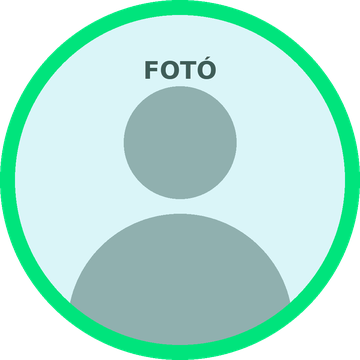
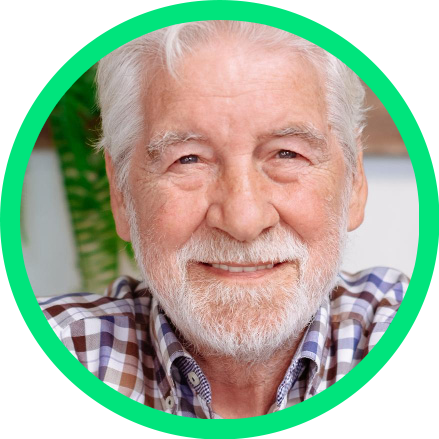
changes1

diff --git a/index.html b/index.html
@@ -60,7 +60,7 @@ a{color:#00807d;}
 </head>
 <body class="email-outer" style="margin:0;padding:0;background-color:#f7f5ef;">
 <!-- Preheader (rejtett előnézeti szöveg) -->
-<div style="display:none;font-size:1px;line-height:1px;max-height:0;max-width:0;opacity:0;overflow:hidden;mso-hide:all;">A megfelelő HbA1c nem jelent automatikusan optimális cardiorenalis védelmet – gyakorlati eset a háziorvosi rendelőből.&#8199;&#847;&#8199;&#847;&#8199;&#847;&#8199;&#847;&#8199;&#847;&#8199;&#847;&#8199;&#847;&#8199;&#847;</div>
+<div style="display:none;font-size:1px;line-height:1px;max-height:0;max-width:0;opacity:0;overflow:hidden;mso-hide:all;">A megfelelő HbA1c nem jelent automatikusan optimális kardiorenális védelmet – gyakorlati eset a háziorvosi rendelőből.&#8199;&#847;&#8199;&#847;&#8199;&#847;&#8199;&#847;&#8199;&#847;&#8199;&#847;&#8199;&#847;&#8199;&#847;</div>
 <center class="email-outer" style="width:100%;background-color:#f7f5ef;">
 <table role="presentation" class="email-outer" width="100%" cellpadding="0" cellspacing="0" border="0" bgcolor="#f7f5ef">
 <tr><td align="center" style="padding:32px 10px;">
@@ -120,7 +120,7 @@ a{color:#00807d;}
 <td bgcolor="#00e47c" style="background-color:#00e47c;padding:8px 18px;mso-padding-alt:10px 18px;border-radius:18px 0 18px 0;font-family:'BoehringerForwardArabicVar',Arial,Helvetica,sans-serif;font-size:22px;line-height:29px;color:#08312a;">Bevezetés</td>
 </tr></table></td></tr>
 <tr><td style="height:18px;line-height:18px;font-size:1px;mso-line-height-rule:exactly;">&nbsp;</td></tr>
-<tr><td class="force-light-text" style="font-family:'BoehringerForwardHead',Arial,Helvetica,sans-serif;font-size:15.5px;line-height:25px;color:#12241f;">Az elmúlt években jelentős szemléletváltás zajlott le a 2-es típusú diabetes kezelésében. Az SGLT2-gátlók mára nem csupán vércukorcsökkentő készítményekké váltak, hanem bizonyított cardiorenalis védőhatással rendelkező terápiákká, amelyek a diabetológiai, nefrológiai és kardiológiai ajánlásokban egyaránt kiemelt szerepet kaptak.<sup style="font-size:10px;line-height:0;vertical-align:super;">1–4,16</sup></td></tr>
+<tr><td class="force-light-text" style="font-family:'BoehringerForwardHead',Arial,Helvetica,sans-serif;font-size:15.5px;line-height:25px;color:#12241f;">Az elmúlt években jelentős szemléletváltás zajlott le a 2-es típusú diabétesz kezelésében. Az SGLT2-gátlók mára nem csupán vércukorcsökkentő készítményekké váltak, hanem bizonyított kardiorenális védőhatással rendelkező terápiákká, amelyek a diabetológiai, nefrológiai és kardiológiai ajánlásokban egyaránt kiemelt szerepet kaptak.<sup style="font-size:10px;line-height:0;vertical-align:super;">1–4,16</sup></td></tr>
 <tr><td style="height:20px;line-height:20px;font-size:1px;mso-line-height-rule:exactly;">&nbsp;</td></tr>
 <!-- Szemléletváltás vizuál -->
 <tr><td>
@@ -134,7 +134,7 @@ a{color:#00807d;}
   <td class="step-cell" width="44%" valign="middle" bgcolor="#08312a" style="background-color:#08312a;border-radius:16px;padding:18px 18px;">
     <div style="font-family:Arial,Helvetica,sans-serif;font-size:11px;line-height:14px;font-weight:bold;letter-spacing:.08em;color:#00e47c;">MA</div>
     <div style="height:6px;line-height:6px;font-size:1px;">&nbsp;</div>
-    <div style="font-family:'BoehringerForwardHead',Arial,Helvetica,sans-serif;font-size:17px;line-height:22px;font-weight:bold;color:#ffffff;">Bizonyított cardiorenalis védőhatás</div>
+    <div style="font-family:'BoehringerForwardHead',Arial,Helvetica,sans-serif;font-size:17px;line-height:22px;font-weight:bold;color:#ffffff;">Vércukorcsökkentés bizonyított kardiorenális védelemmel</div>
   </td>
 </tr></table>
 </td></tr>
@@ -189,7 +189,7 @@ a{color:#00807d;}
     <td style="padding-left:10px;font-family:'BoehringerForwardHead',Arial,Helvetica,sans-serif;font-size:16px;line-height:20px;font-weight:bold;color:#08312a;">Igazolt társbetegség áll fenn</td>
   </tr></table>
   <div style="height:10px;line-height:10px;font-size:1px;">&nbsp;</div>
-  <div style="font-family:'BoehringerForwardHead',Arial,Helvetica,sans-serif;font-size:14px;line-height:21px;color:#12241f;">Dokumentált 2-es típusú diabetes mellitusban, ha az alábbi társbetegségek valamelyike is fennáll:</div>
+  <div style="font-family:'BoehringerForwardHead',Arial,Helvetica,sans-serif;font-size:14px;line-height:21px;color:#12241f;">Dokumentált 2-es típusú diabétesz mellitusban, ha az alábbi társbetegségek valamelyike is fennáll:</div>
   <div style="height:10px;line-height:10px;font-size:1px;">&nbsp;</div>
   <table role="presentation" width="100%" cellpadding="0" cellspacing="0" border="0">
     <tr><td width="40" valign="middle" style="width:40px;padding:0 10px 8px 0;"><img src="images/ph-ikon-sziv.png" width="36" height="36" alt="" style="display:block;width:36px;height:36px;border:0;outline:none;text-decoration:none;"></td><td valign="middle" style="padding:0 0 8px;font-family:'BoehringerForwardHead',Arial,Helvetica,sans-serif;font-size:14px;line-height:19px;font-weight:bold;color:#08312a;">csökkent ejekciós frakciójú szívelégtelenség</td></tr>
@@ -205,7 +205,7 @@ a{color:#00807d;}
 <td bgcolor="#00e47c" style="background-color:#00e47c;padding:8px 18px;mso-padding-alt:10px 18px;border-radius:18px 0 18px 0;font-family:'BoehringerForwardArabicVar',Arial,Helvetica,sans-serif;font-size:22px;line-height:29px;color:#08312a;">Klinikai eset</td>
 </tr></table></td></tr>
 <tr><td style="height:18px;line-height:18px;font-size:1px;mso-line-height-rule:exactly;">&nbsp;</td></tr>
-<tr><td class="force-light-text" style="font-family:'BoehringerForwardHead',Arial,Helvetica,sans-serif;font-size:15.5px;line-height:25px;color:#12241f;">Egy 68 éves, 2-es típusú diabetesben szenvedő férfi érkezik kontrollvizsgálatra. Metformin-kezelés mellett HbA1c-értéke 6,8%, ezért első pillantásra megfelelő anyagcserehelyzetben lévő betegnek tűnik. Laboreredményeiben azonban az eGFR 48 ml/perc/1,73 m², az albumin/kreatinin arány pedig 89 mg/g. A betegnek tehát diabetes mellett krónikus vesebetegsége is fennáll.<sup style="font-size:10px;line-height:0;vertical-align:super;">1</sup></td></tr>
+<tr><td class="force-light-text" style="font-family:'BoehringerForwardHead',Arial,Helvetica,sans-serif;font-size:15.5px;line-height:25px;color:#12241f;">Egy 68 éves, 2-es típusú diabéteszben szenvedő férfi érkezik kontrollvizsgálatra. Metformin-kezelés mellett HbA1c-értéke 6,8%, ezért első pillantásra megfelelő anyagcserehelyzetben lévő betegnek tűnik. Laboreredményeiben azonban az eGFR 48 ml/perc/1,73 m², az albumin/kreatinin arány pedig 8,9 mg/mmol. A betegnek tehát diabétesz mellett krónikus vesebetegsége is fennáll.<sup style="font-size:10px;line-height:0;vertical-align:super;">1</sup></td></tr>
 <tr><td style="height:20px;line-height:20px;font-size:1px;mso-line-height-rule:exactly;">&nbsp;</td></tr>
 <tr><td class="card-pad" style="border:2px solid #a3e5ee;border-radius:20px;padding:22px 20px;">
   <table role="presentation" width="100%" cellpadding="0" cellspacing="0" border="0">
@@ -213,14 +213,14 @@ a{color:#00807d;}
     <td class="stack patient-av" width="140" valign="top" align="center" style="width:140px;padding:0 18px 14px 0;">
       <img src="images/ph-beteg-foto.png" width="120" height="120" alt="Beteg – illusztráció" style="display:block;width:120px;height:120px;border:0;outline:none;text-decoration:none;">
       <table role="presentation" cellpadding="0" cellspacing="0" border="0" align="center" style="margin-top:-14px;"><tr>
-        <td bgcolor="#00e47c" style="background-color:#00e47c;padding:5px 12px;font-family:'BoehringerForwardHead',Arial,Helvetica,sans-serif;font-size:14px;line-height:18px;font-weight:bold;color:#08312a;white-space:nowrap;">68 éves férfi</td>
+        <td bgcolor="#00e47c" style="background-color:#00e47c;padding:5px 12px;padding-top:15px;font-family:'BoehringerForwardHead',Arial,Helvetica,sans-serif;font-size:14px;line-height:18px;font-weight:bold;color:#08312a;white-space:nowrap;">68 éves férfi</td>
       </tr></table>
     </td>
     <td class="stack" valign="top">
       <table role="presentation" width="100%" cellpadding="0" cellspacing="0" border="0">
         <tr>
           <td width="54" valign="middle" style="width:54px;padding:0 12px 12px 0;"><img src="images/diabetes_monitor.png" width="44" height="44" alt="" style="display:block;width:44px;height:44px;border:0;outline:none;text-decoration:none;"></td>
-          <td valign="middle" style="padding:0 0 12px;"><div style="font-family:'BoehringerForwardHead',Arial,Helvetica,sans-serif;font-size:15px;line-height:20px;font-weight:bold;color:#08312a;">Diagnózis</div><div style="font-family:'BoehringerForwardHead',Arial,Helvetica,sans-serif;font-size:14px;line-height:19px;color:#12241f;">2-es típusú diabetes</div></td>
+          <td valign="middle" style="padding:0 0 12px;"><div style="font-family:'BoehringerForwardHead',Arial,Helvetica,sans-serif;font-size:15px;line-height:20px;font-weight:bold;color:#08312a;">Diagnózis</div><div style="font-family:'BoehringerForwardHead',Arial,Helvetica,sans-serif;font-size:14px;line-height:19px;color:#12241f;">2-es típusú diabétesz</div></td>
         </tr>
         <tr>
           <td width="54" valign="middle" style="width:54px;padding:0 12px 12px 0;"><img src="images/clipboard_pil.png" width="44" height="44" alt="" style="display:block;width:44px;height:44px;border:0;outline:none;text-decoration:none;"></td>
@@ -249,7 +249,7 @@ a{color:#00807d;}
 </tr>
     <tr>
   <td class="lab" bgcolor="#f2f2f2" style="background-color:#f2f2f2;padding:10px 12px;font-family:Arial,Helvetica,sans-serif;font-size:13px;line-height:17px;font-weight:bold;color:#08312a;">Albumin/&#8203;kreatinin arány</td>
-  <td class="lab" bgcolor="#f2f2f2" style="background-color:#f2f2f2;padding:10px 12px;font-family:'BoehringerForwardHead',Arial,Helvetica,sans-serif;font-size:14px;line-height:18px;color:#12241f;">89 mg/g</td>
+  <td class="lab" bgcolor="#f2f2f2" style="background-color:#f2f2f2;padding:10px 12px;font-family:'BoehringerForwardHead',Arial,Helvetica,sans-serif;font-size:14px;line-height:18px;color:#12241f;">8,9 mg/mmol</td>
   <td class="lab" bgcolor="#f2f2f2" align="right" style="background-color:#f2f2f2;padding:8px 12px;"><table role="presentation" cellpadding="0" cellspacing="0" border="0"><tr><td bgcolor="#ffc500" style="background-color:#ffc500;padding:3px 10px;border-radius:12px;font-family:Arial,Helvetica,sans-serif;font-size:11px;line-height:15px;font-weight:bold;color:#08312a;white-space:nowrap;text-transform:uppercase;letter-spacing:.04em;">emelkedett</td></tr></table></td>
 </tr>
   </table>
@@ -285,13 +285,13 @@ a{color:#00807d;}
     <td bgcolor="#00e47c" style="background-color:#00e47c;border-radius:16px;padding:18px 18px 20px;">
       <table role="presentation" cellpadding="0" cellspacing="0" border="0"><tr><td bgcolor="#08312a" style="background-color:#08312a;padding:3px 10px;border-radius:12px;font-family:Arial,Helvetica,sans-serif;font-size:11px;line-height:15px;font-weight:bold;color:#00e47c;white-space:nowrap;text-transform:uppercase;letter-spacing:.04em;">&#10003;&nbsp; ajánlás</td></tr></table>
       <div style="height:12px;line-height:12px;font-size:1px;">&nbsp;</div>
-      <div style="font-family:'BoehringerForwardHead',Arial,Helvetica,sans-serif;font-size:14.5px;line-height:22px;color:#08312a;">A jelenlegi ajánlások azonban egyértelműen hangsúlyozzák, hogy krónikus vesebetegség és szívelégtelenség esetén az SGLT2-gátlók alkalmazásának <b>elsődleges célja a cardiorenalis védelem.</b><sup style="font-size:10px;line-height:0;vertical-align:super;">2,4,5</sup></div>
+      <div style="font-family:'BoehringerForwardHead',Arial,Helvetica,sans-serif;font-size:14.5px;line-height:22px;color:#08312a;">A jelenlegi ajánlások azonban egyértelműen hangsúlyozzák, hogy krónikus vesebetegség és szívelégtelenség esetén az SGLT2-gátlók alkalmazásának <b>elsődleges célja a kardiorenális védelem.</b><sup style="font-size:10px;line-height:0;vertical-align:super;">2,4,5</sup></div>
     </td></tr></table>
   </td>
 </tr></table>
 </td></tr>
 <tr><td style="height:26px;line-height:26px;font-size:1px;mso-line-height-rule:exactly;">&nbsp;</td></tr>
-<tr><td class="" style="font-family:'BoehringerForwardHead',Arial,Helvetica,sans-serif;font-size:15.5px;line-height:25px;color:#ffffff;">A cardiorenalis kockázat megítéléséhez nem elegendő a HbA1c értékelése. Rendszeresen szükséges áttekinteni:<sup style="font-size:10px;line-height:0;vertical-align:super;">2</sup></td></tr>
+<tr><td class="" style="font-family:'BoehringerForwardHead',Arial,Helvetica,sans-serif;font-size:15.5px;line-height:25px;color:#ffffff;">A kardiorenális kockázat megítéléséhez nem elegendő a HbA1c értékelése. Rendszeresen szükséges áttekinteni<sup style="font-size:10px;line-height:0;vertical-align:super;">2</sup> :</td></tr>
 <tr><td style="height:18px;line-height:18px;font-size:1px;mso-line-height-rule:exactly;">&nbsp;</td></tr>
 <tr><td><table role="presentation" width="100%" cellpadding="0" cellspacing="0" border="0">
 <tr>
@@ -382,7 +382,7 @@ a{color:#00807d;}
     </tr></table>
     <div style="height:16px;line-height:16px;font-size:1px;">&nbsp;</div>
     <div style="font-family:Arial,Helvetica,sans-serif;font-size:11px;line-height:14px;font-weight:bold;letter-spacing:.06em;color:#4b5f59;">BETEGÜNK</div>
-    <div style="font-family:'BoehringerForwardHead',Arial,Helvetica,sans-serif;font-size:22px;line-height:28px;font-weight:bold;color:#08312a;">89 mg/g</div>
+    <div style="font-family:'BoehringerForwardHead',Arial,Helvetica,sans-serif;font-size:22px;line-height:28px;font-weight:bold;color:#08312a;">8,9 mg/mmol</div>
     <div style="font-family:'BoehringerForwardHead',Arial,Helvetica,sans-serif;font-size:12px;line-height:16px;color:#4b5f59;">albumin/kreatinin arány</div>
   </td>
 </tr></table>
@@ -410,7 +410,7 @@ a{color:#00807d;}
     <td class="stack" valign="middle">
       <div style="font-family:Arial,Helvetica,sans-serif;font-size:11px;line-height:14px;font-weight:bold;letter-spacing:.08em;color:#08312a;">KLINIKAI TANULSÁG</div>
       <div style="height:6px;line-height:6px;font-size:1px;">&nbsp;</div>
-      <div style="font-family:'BoehringerForwardHead',Arial,Helvetica,sans-serif;font-size:21px;line-height:27px;font-weight:bold;color:#08312a;">A megfelelő HbA1c nem jelent automatikusan optimális cardiorenalis védelmet.</div>
+      <div style="font-family:'BoehringerForwardHead',Arial,Helvetica,sans-serif;font-size:21px;line-height:27px;font-weight:bold;color:#08312a;">A megfelelő HbA1c nem jelent automatikusan optimális kardiorenális védelmet.</div>
       <div style="height:8px;line-height:8px;font-size:1px;">&nbsp;</div>
       <div style="font-family:'BoehringerForwardHead',Arial,Helvetica,sans-serif;font-size:15px;line-height:22px;color:#08312a;">A terápiás döntések során a beteg teljes kockázati profilját szükséges figyelembe venni.<sup style="font-size:10px;line-height:0;vertical-align:super;">1,2,4</sup></div>
     </td>
@@ -424,7 +424,7 @@ a{color:#00807d;}
     <td class="stack" valign="middle">
       <div style="font-family:'BoehringerForwardArabicVar',Arial,Helvetica,sans-serif;font-size:22px;line-height:28px;color:#08312a;">Gyakorlati megfontolás</div>
       <div style="height:6px;line-height:6px;font-size:1px;">&nbsp;</div>
-      <div style="font-family:'BoehringerForwardHead',Arial,Helvetica,sans-serif;font-size:15px;line-height:23px;color:#12241f;">A következő diabeteses kontrollvizsgálat során érdemes áttekinteni a CKD-ben szenvedő betegek eGFR- és albuminuria-adatait, valamint mérlegelni, hogy a beteg profitálhat-e SGLT2-gátló kezelésből.</div>
+      <div style="font-family:'BoehringerForwardHead',Arial,Helvetica,sans-serif;font-size:15px;line-height:23px;color:#12241f;">A következő diabéteszes kontrollvizsgálat során érdemes áttekinteni a CKD-ben szenvedő betegek eGFR- és albuminuria-adatait, valamint mérlegelni, hogy a beteg profitálhat-e SGLT2-gátló kezelésből.</div>
     </td>
   </tr></table>
   <div style="height:18px;line-height:18px;font-size:1px;">&nbsp;</div>
@@ -488,9 +488,9 @@ a{color:#00807d;}
   <table role="presentation" width="100%" cellpadding="0" cellspacing="0" border="0"><tr>
     <td class="stack stack-gap" width="96" valign="top" style="width:96px;padding-right:18px;"><img src="images/ph-szerzo-foto.png" width="84" height="84" alt="Móczár Csaba dr." style="display:block;width:84px;height:84px;border:0;outline:none;text-decoration:none;"></td>
     <td class="stack" valign="top">
-      <div class="force-light-muted" style="font-family:'BoehringerForwardHead',Arial,Helvetica,sans-serif;font-size:14px;line-height:21px;color:#4b5f59;">Hírlevelünk dr. Móczár Csaba: <i>Mire figyeljünk az SGLT2-gátlók és a GLP-receptor-antagonisták felírásával kapcsolatban</i> című cikke alapján készült.</div>
+      <div class="force-light-muted" style="font-family:'BoehringerForwardHead',Arial,Helvetica,sans-serif;font-size:14px;line-height:21px;color:#4b5f59;">Hírlevelünk Dr. Móczár Csaba: <i>Mire figyeljünk az SGLT2-gátlók és a GLP-receptor-antagonisták felírásával kapcsolatban</i> című cikke alapján készült.</div>
       <div style="height:10px;line-height:10px;font-size:1px;">&nbsp;</div>
-      <div class="force-light-text" style="font-family:'BoehringerForwardHead',Arial,Helvetica,sans-serif;font-size:16px;line-height:21px;font-weight:bold;color:#08312a;">Móczár Csaba dr.</div>
+      <div class="force-light-text" style="font-family:'BoehringerForwardHead',Arial,Helvetica,sans-serif;font-size:16px;line-height:21px;font-weight:bold;color:#08312a;">dr. Móczár Csaba</div>
       <div class="force-light-muted" style="font-family:'BoehringerForwardHead',Arial,Helvetica,sans-serif;font-size:12.5px;line-height:18px;color:#4b5f59;">Irinyi Rendelő, Felnőtt háziorvosi rendelő, Kecskemét<br>Irinyi Rendelő, Diabetológiai szakrendelő, Kecskemét<br>Semmelweis Egyetem, ÁOK, Családorvosi Tanszék, Budapest</div>
     </td>
   </tr></table>
@@ -506,11 +506,11 @@ a{color:#00807d;}
 <!--[if !mso]><!-->
 <table role="presentation" cellpadding="0" cellspacing="0" border="0" align="center"><tr>
 <td bgcolor="#00e47c" align="center" valign="middle" style="background-color:#00e47c;border-radius:10px;padding:15px 30px;">
-<a href="#CIKK_URL" target="_blank" style="display:inline-block;font-family:'BoehringerForwardArabicVar',Arial,Helvetica,sans-serif;font-size:20px;line-height:24px;color:#08312a;text-decoration:none;white-space:nowrap;">Olvassa el a teljes cikket</a>
+<a href="https://mdprevencio.olo.hu/cikkek/mire-figyeljunk-az-sglt2-gatlok-es-a-glp-receptor-antagonistak-felirasaval-kapcsolatban-previ" target="_blank" style="display:inline-block;font-family:'BoehringerForwardArabicVar',Arial,Helvetica,sans-serif;font-size:20px;line-height:24px;color:#08312a;text-decoration:none;white-space:nowrap;">Olvassa el a teljes cikket</a>
 </td></tr></table>
 <!--<![endif]-->
 </td></tr>
-<tr><td align="center" class="force-light-muted" style="font-family:'BoehringerForwardHead',Arial,Helvetica,sans-serif;font-size:12.5px;line-height:18px;color:#4b5f59;padding-bottom:26px;">A teljes cikk <a href="#CIKK_URL" target="_blank" style="color:#00807d;text-decoration:underline;">ide kattintva</a> olvasható.</td></tr>
+<!-- <tr><td align="center" class="force-light-muted" style="font-family:'BoehringerForwardHead',Arial,Helvetica,sans-serif;font-size:12.5px;line-height:18px;color:#4b5f59;padding-bottom:26px;">A teljes cikk <a href="#CIKK_URL" target="_blank" style="color:#00807d;text-decoration:underline;">ide kattintva</a> olvasható.</td></tr> -->
 </table>
 </td></tr>
 <!-- ===== REFERENCIÁK ===== -->
@@ -536,7 +536,7 @@ a{color:#00807d;}
     Adatvédelmi irányelvek <a href="https://www.boehringer-ingelheim.com/hu/rolunk/pdf/altalanos-adatkezelesi-tajekoztato?BIID=%7B%7BAccount.Id%7D%7D&amp;cid=ae%3A%7B%7BOrgId%7D%7D%3A%7B%7BApproved_Document_vod__c.Id%7D%7D%3A%7B%7BEmailId%7D%7D" style="color:#00e47c;">linkje</a>.<br>
     A leiratkozáshoz kérjük, kattintson <a href="https://t.information.boehringer-ingelheim.com/webApp/bipHuPreferences?id=%3C%=escapeUrl(cryptString(recipient.id))%%3E" style="color:#00e47c;">ide</a>.
   </td></tr></table>
-  <div class="force-light-muted" style="font-family:Arial,Helvetica,sans-serif;font-size:12.5px;line-height:20px;color:#545555;padding-top:10px;">SC-HU-07092<br>Lezárás dátuma: 2026.10.xx.</div>
+  <div class="force-light-muted" style="font-family:Arial,Helvetica,sans-serif;font-size:12.5px;line-height:20px;color:#545555;padding-top:10px;">SC-HU-07092<br>Lezárás dátuma: 2026.10.09.</div>
 </td></tr>
 </table>
 <!--[if mso]></td></tr></table><![endif]-->
